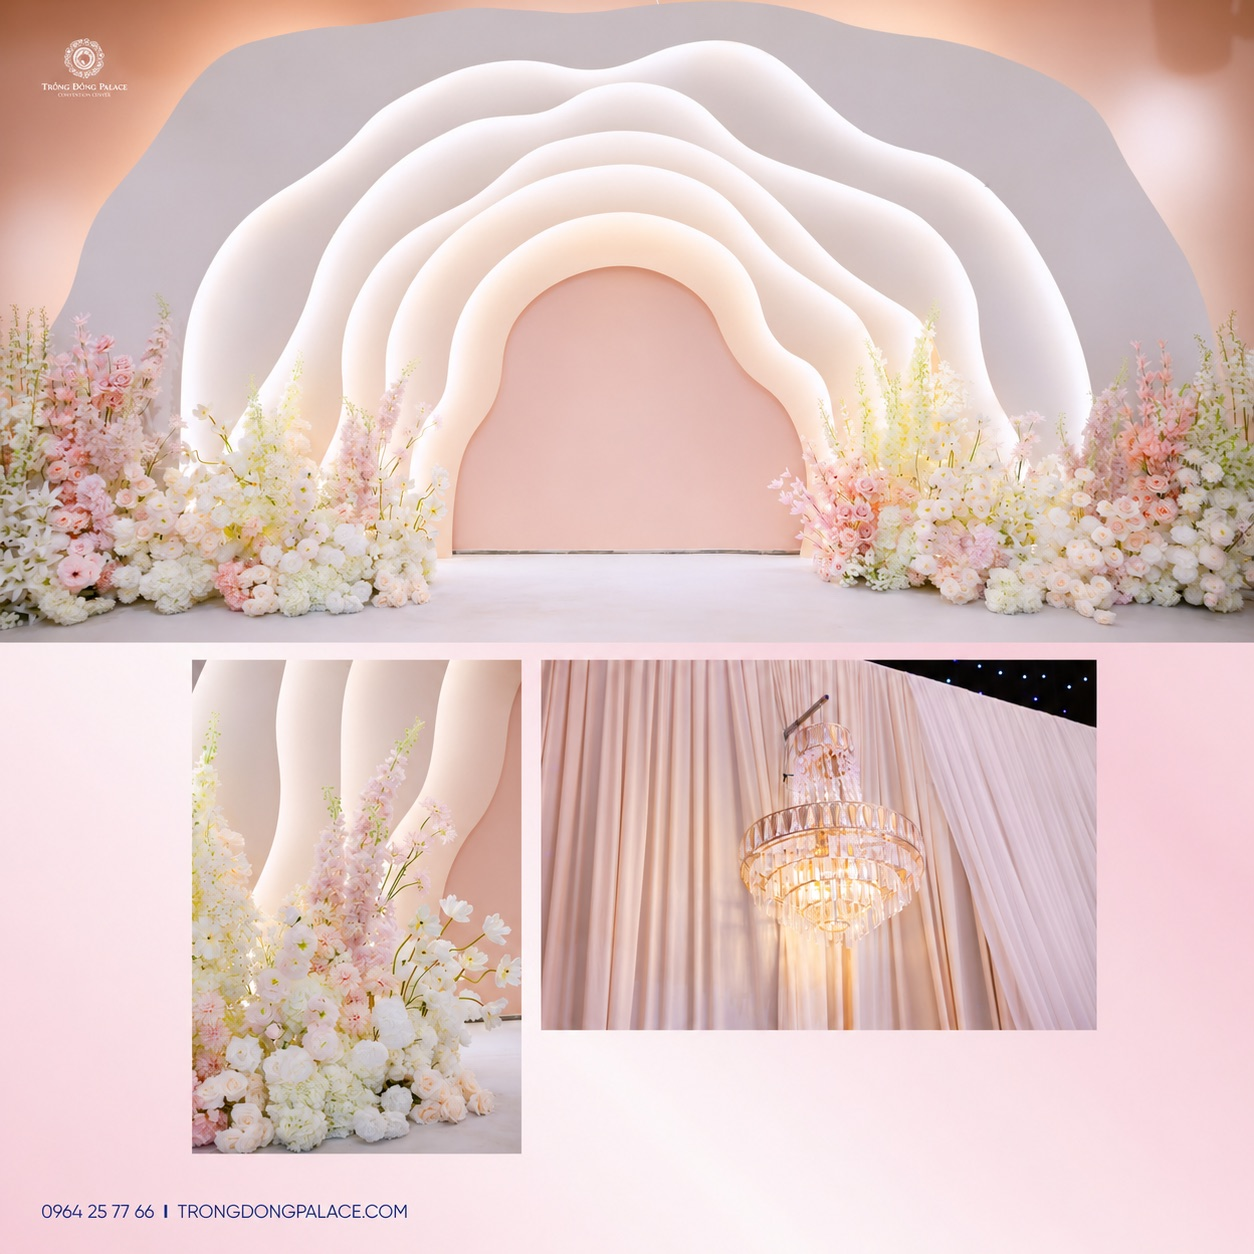
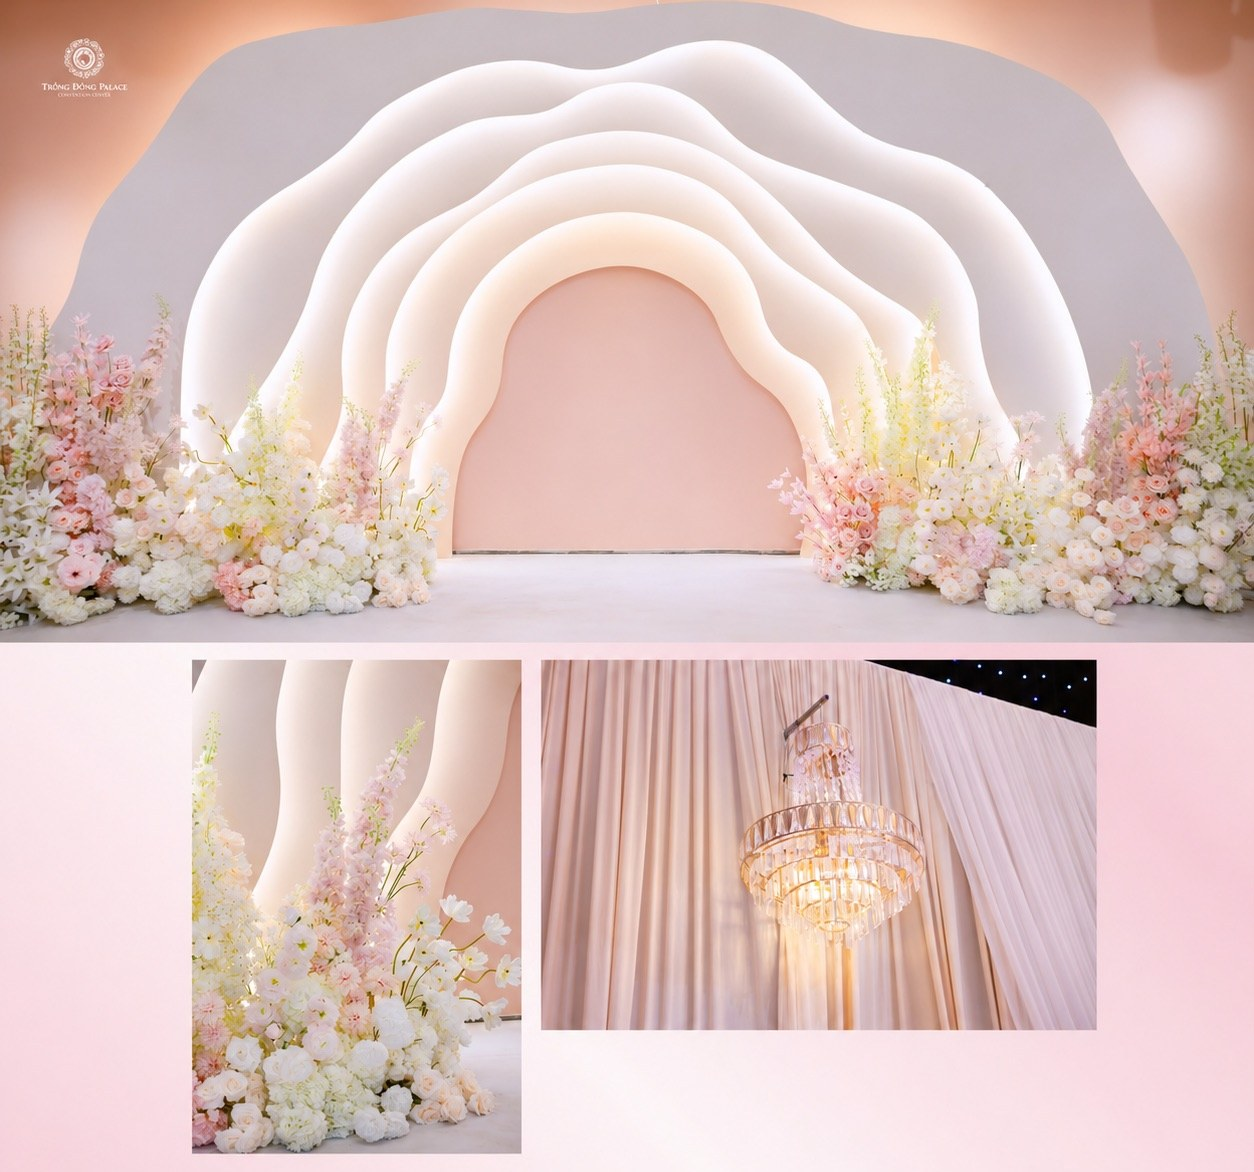
fix: show full venue photo without contact strip
Crop the phone/website band baked into the venue image and render it at
its natural ratio instead of forcing a cropped height on desktop.

diff --git a/src/design/styles/location.css b/src/design/styles/location.css
@@ -13,12 +13,12 @@
 .guide-heading{max-width:42rem}
 .guide-heading h2{margin-bottom:0}.guide-list{border-top:1px solid var(--line)}.guide-item{display:grid;grid-template-columns:max-content minmax(0,1fr);gap:2rem;padding:2.4rem 0;border-bottom:1px solid var(--line)}.guide-item:last-child{border-bottom:0}.guide-index{margin:0;color:var(--accent);font:600 .7rem var(--sans);letter-spacing:.07em;text-transform:uppercase;white-space:nowrap}.guide-item h3{margin:0 0 .7rem;color:#b51f2a;font:500 clamp(1.65rem,2.35vw,2.2rem)/1.05 var(--serif);letter-spacing:-.045em}.guide-item div>p{max-width:620px;margin:0;color:var(--muted);font:italic 500 clamp(1.02rem,1.2vw,1.12rem)/1.62 var(--serif)}.guide-item .inline-link{margin-top:1.45rem}
 .venue-photo{margin:clamp(1.5rem,3vw,2.4rem) 0 1.2rem;padding:clamp(6px,.8vw,10px);background:#fff;box-shadow:0 16px 45px rgb(76 54 40/.1)}
-.venue-photo img{display:block;width:100%;aspect-ratio:1.4/1;object-fit:cover;object-position:center 42%}
+.venue-photo img{display:block;width:100%;height:auto}
 .venue-photo figcaption{padding:.8rem .15rem .2rem;color:var(--muted);font:500 clamp(.82rem,.85vw,.92rem)/1.45 var(--sans);letter-spacing:.05em;text-transform:uppercase}
 .venue-visuals{display:grid;grid-template-columns:repeat(2,minmax(0,1fr));gap:clamp(18px,2vw,30px);align-items:start;margin:clamp(1.5rem,3vw,2.4rem) 0 1.2rem}
 .venue-visuals .venue-photo,.venue-visuals .venue-diorama-frame{margin:0}
-@media(min-width:761px){.venue-visuals .venue-photo img{height:clamp(360px,31vw,440px);aspect-ratio:auto;object-fit:cover}.venue-visuals .venue-diorama{height:calc(clamp(360px,31vw,440px) + 2.5rem);aspect-ratio:auto}}
-@media(max-width:760px){.guest-guide{grid-template-columns:minmax(0,1fr);gap:2.4rem}.guide-item{grid-template-columns:minmax(0,1fr);gap:.8rem;padding:1.8rem 0}.venue-visuals{grid-template-columns:minmax(0,1fr);gap:1.2rem}.venue-visuals .venue-photo img{aspect-ratio:1.28/1}}
+@media(min-width:761px){.venue-visuals .venue-diorama{height:calc(clamp(360px,31vw,440px) + 2.5rem);aspect-ratio:auto}}
+@media(max-width:760px){.guest-guide{grid-template-columns:minmax(0,1fr);gap:2.4rem}.guide-item{grid-template-columns:minmax(0,1fr);gap:.8rem;padding:1.8rem 0}.venue-visuals{grid-template-columns:minmax(0,1fr);gap:1.2rem}}
 
 .rsvp-form select{display:block;width:100%;margin-top:10px;padding:10px 30px 10px 0;border:0;border-bottom:1px solid #9ca8a8;border-radius:0;background:transparent;color:var(--ink);font:400 1rem var(--sans);outline:none}.rsvp-form select:focus{border-color:var(--accent);box-shadow:0 2px 0 var(--accent)}.guest-count-field[hidden]{display:none!important}
 
